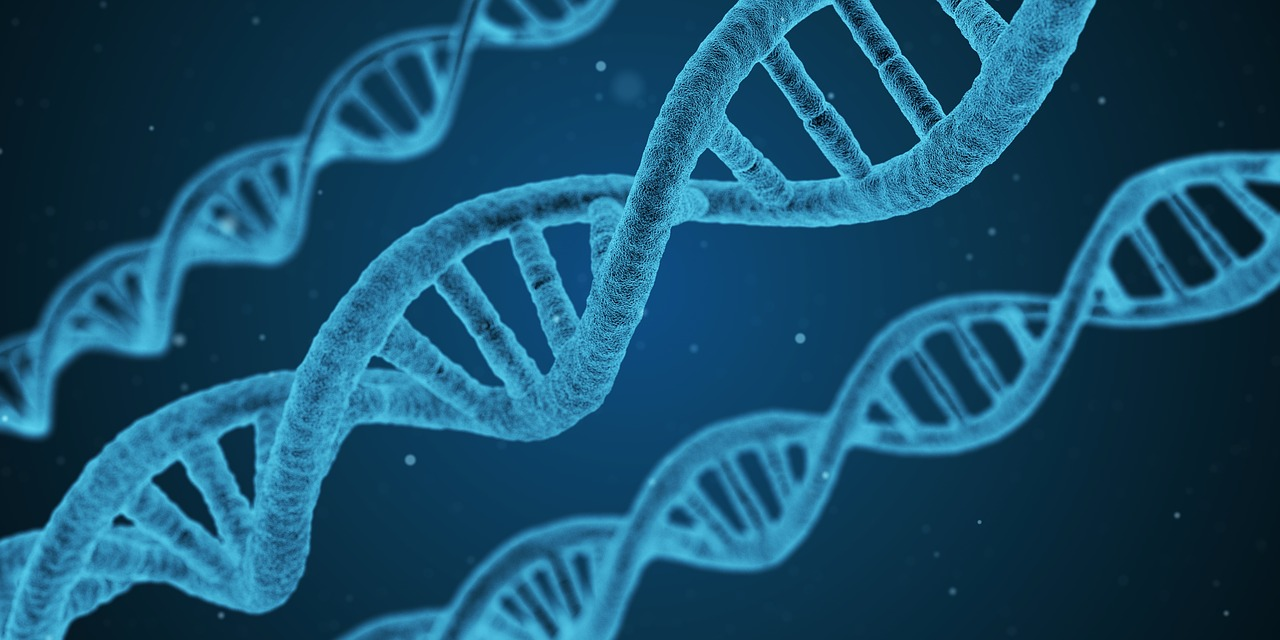
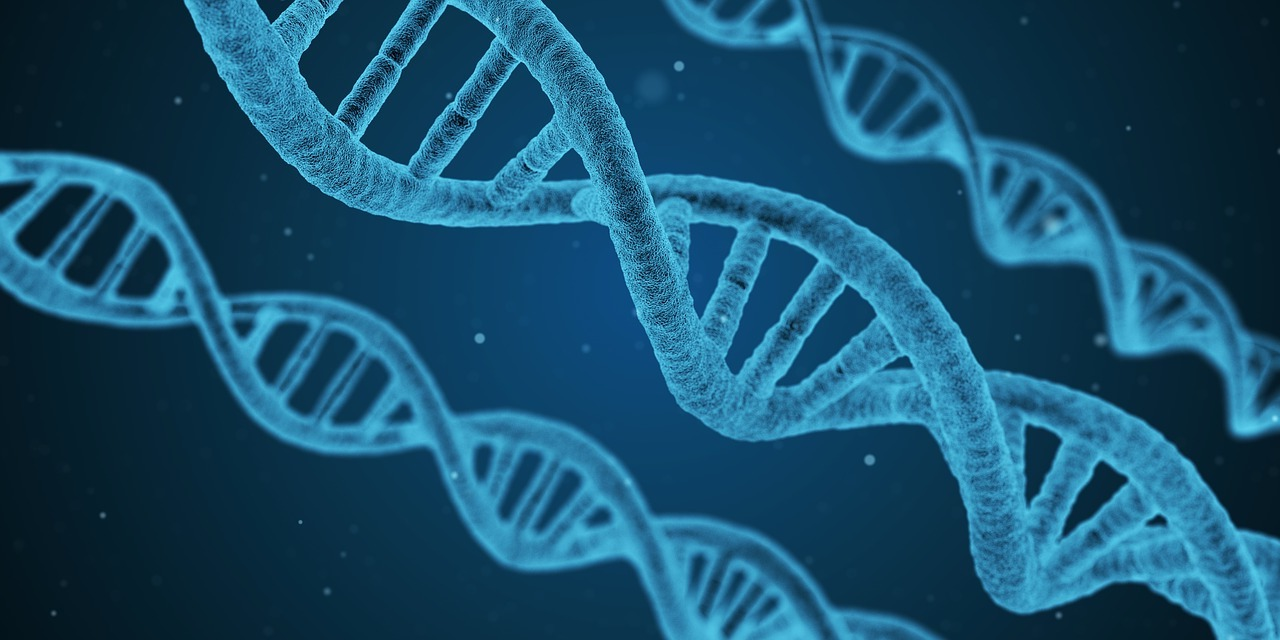
Flipped images, added authentication, fixed search box

diff --git a/index.php b/index.php
@@ -1,3 +1,6 @@
+<?php
+require_once('authenticate.php');
+?>
 <?php 
 include 'header.php';
 
@@ -11,7 +14,7 @@ include 'header.php';
 				<form action="<?php echo $hosturi; ?>/search" name="searchform" id="searchform" method="get">
 					<div class="input-group" id="search-box">
 		                <!-- <input type="text" class="form-control" placeholder="Search the GoDMC database" id="search" name="query"> -->
-		                <textarea class="form-control" placeholder="Search the GoDMC database" id="search" name="query"></textarea>
+		                <input class="form-control" placeholder="Search the GoDMC database" id="search" name="query" style="width:100%;">
 		                <span class="input-group-btn">
 		                    <button class="btn btn-default" type="submit" id="search-button">
 		                        <span class="glyphicon glyphicon-search"></span>
@@ -20,14 +23,12 @@ include 'header.php';
 		            </div>
 		            <div class="examples">
 		                <strong>Possible searches:</strong>
-		                <ul>
-		                	<li>SNP name: e.g. <a href="<?php echo $hosturi; ?>/search?query=rs7105015" data-original-title="" title="">rs7105015</a></li>
-		                	<li>CpG name: e.g. <a href="<?php echo $hosturi; ?>/search?query=cg24851651" data-original-title="" title="">cg24851651</a></li>
-		                	<li>Chromosome position: e.g. <a href="<?php echo $hosturi; ?>/search?query=1:160000" data-original-title="" title="">1:160000</a></li>
-		                	<li>Chromosome range: e.g. <a href="<?php echo $hosturi; ?>/search?query=cpg:6:160000-250000" data-original-title="" title="">cpg:6:16000000-25000000</a></li>
-		                	<li>Gene name: e.g. <a href="<?php echo $hosturi; ?>/search?query=A1BG" data-original-title="" title="">A1BG</a></li>
-		                	<li>Search on multiple variables by entering on separate lines or delimit with a comma: e.g. <a href="<?php echo $hosturi; ?>/search?query=cg19104072,cg16950941" data-original-title="" title="">cg19104072,cg16950941</a></li>
-		                </ul>
+		                <a href="<?php echo $hosturi; ?>/search?query=rs7105015" data-original-title="" title="SNP">rs7105015</a>, 
+						<a href="<?php echo $hosturi; ?>/search?query=cg24851651" data-original-title="" title="CpG site">cg24851651</a>,
+						<a href="<?php echo $hosturi; ?>/search?query=1:160000" data-original-title="" title="Chromosome position">1:160000</a>,
+						<a href="<?php echo $hosturi; ?>/search?query=cpg:6:160000-250000" data-original-title="" title="Chromosome range around CpG (or SNP)">cpg:6:16000000-25000000</a>,
+						<a href="<?php echo $hosturi; ?>/search?query=A1BG" data-original-title="" title="Gene name">A1BG</a>,
+						<a href="<?php echo $hosturi; ?>/search?query=cg19104072,cg16950941" data-original-title="" title="Search on multiple comma-delimited variables">cg19104072,cg16950941</a>
 		            </div>
 				</form>
 			</div>

diff --git a/login.php b/login.php
@@ -1,0 +1,39 @@
+<?php
+$user = null;
+$pass = null;
+
+if ($_SERVER['REQUEST_METHOD'] == 'POST') {
+    if(!empty($_POST["user"]) && !empty($_POST["pass"])) {
+        $user = $_POST["user"];
+        $pass = $_POST["pass"];
+        if($user == 'godmc' && $pass == 'GreatestHits1') {
+            session_start();
+            $_SESSION["authenticated"] = 'true';
+            header('Location: index.php');
+        }
+        else {
+            header('Location: login.php');
+        }
+    } else {
+        header('Location: login.php');
+    }
+} else {
+?>
+<?php 
+include 'header.php';
+?>
+<h1>Login</h1>
+<form id="login" method="post">
+    <br />
+    <label for="user">Username:</label>
+    <input id="user" name="user" type="text" required>
+    <label for="pass">Password:</label>
+    <input id="pass" name="pass" type="password" required>                    
+    <br />
+    <input type="submit" value="Login">
+</form>
+<?php } ?>
+
+<?php 
+include 'footer.php';
+?>

diff --git a/search.php b/search.php
@@ -1,4 +1,7 @@
 <?php
+require_once('authenticate.php');
+?>
+<?php
 	include 'header.php';
 	include 'datatables_inc.php';
 ?>
@@ -42,7 +45,7 @@
 					<h2>GoDMC Search</h2>
 					<form action="<?php echo $hosturi; ?>/search.php" name="searchform" id="searchform" method="get">
 						<div class="input-group" id="search-box">
-							<textarea class="form-control" placeholder="Search the GoDMC database" id="search" name="query"><?php echo $query; ?></textarea>
+							<input class="form-control" placeholder="Search the GoDMC database" id="search" name="query" style="width:100%;"><?php echo $query; ?>
 			                
 			                <span class="input-group-btn">
 			                    <button class="btn btn-default" type="submit" id="search-button">

diff --git a/header.php b/header.php
@@ -32,7 +32,10 @@ if ($dirname != '/') {
 		
 	</head>
 	<body id="top">
-
+	<script type='text/javascript'>
+    window.cookieconsent_options = {'message':'This website uses cookies to ensure you get the best experience on our website','dismiss':'Got it!','learnMore':'More info','link':null,'theme':'dark-bottom'};
+</script>
+<script type='text/javascript' src='http://cdnjs.cloudflare.com/ajax/libs/cookieconsent2/1.0.10/cookieconsent.min.js'></script>
 		<!-- Header -->
 			<header id="header" class="skel-layers-fixed">
 				<h1><a href="index.php">GoDMC</a></h1>

diff --git a/authenticate.php b/authenticate.php
@@ -1,0 +1,6 @@
+<?php 
+session_start();
+if(empty($_SESSION["authenticated"]) || $_SESSION["authenticated"] != 'true') {
+    header('Location: login.php');
+} 
+?>
